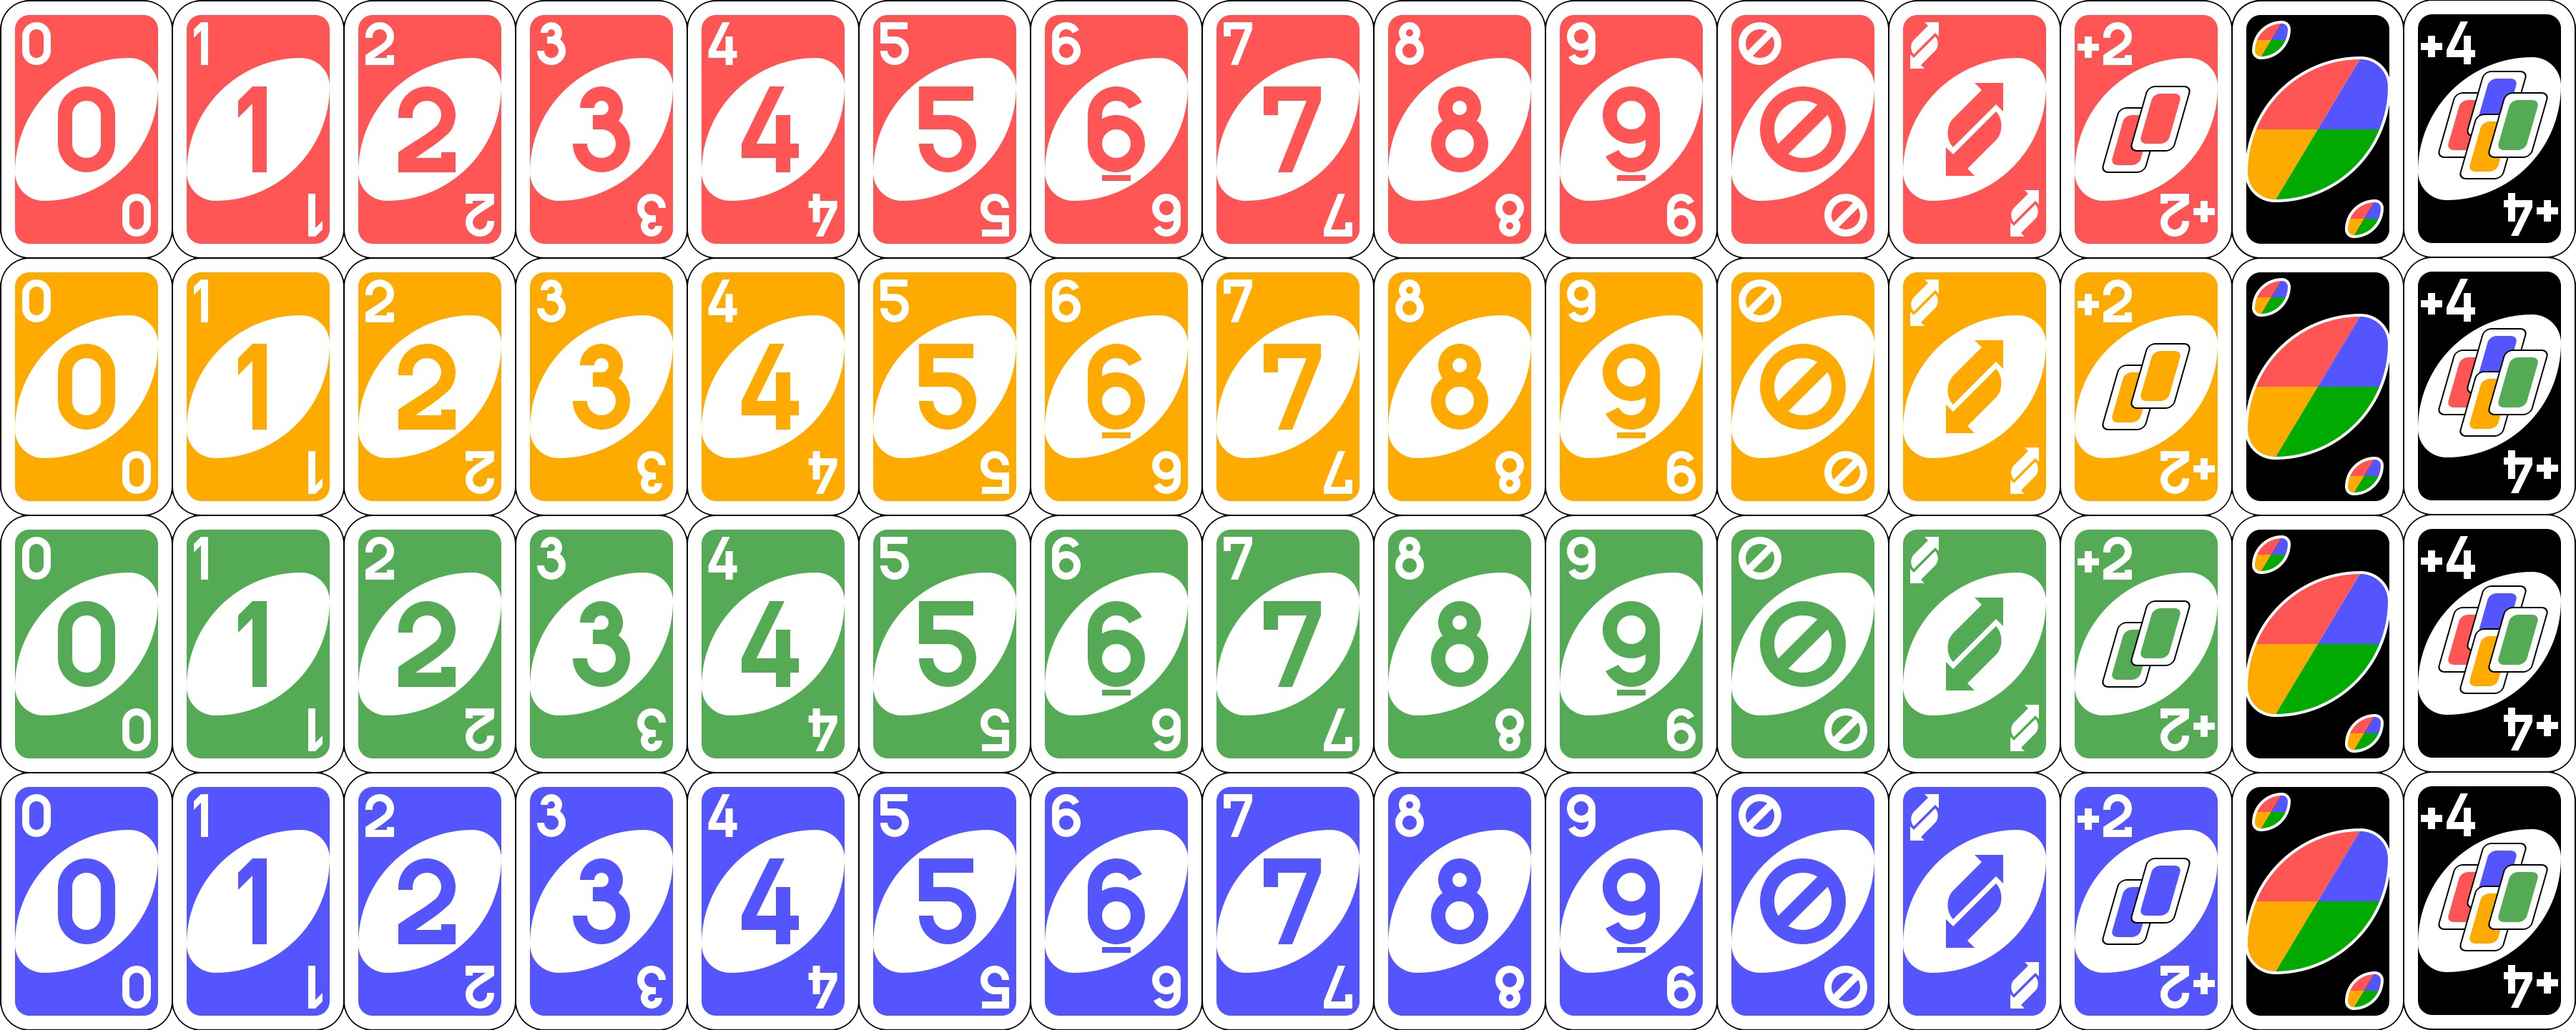
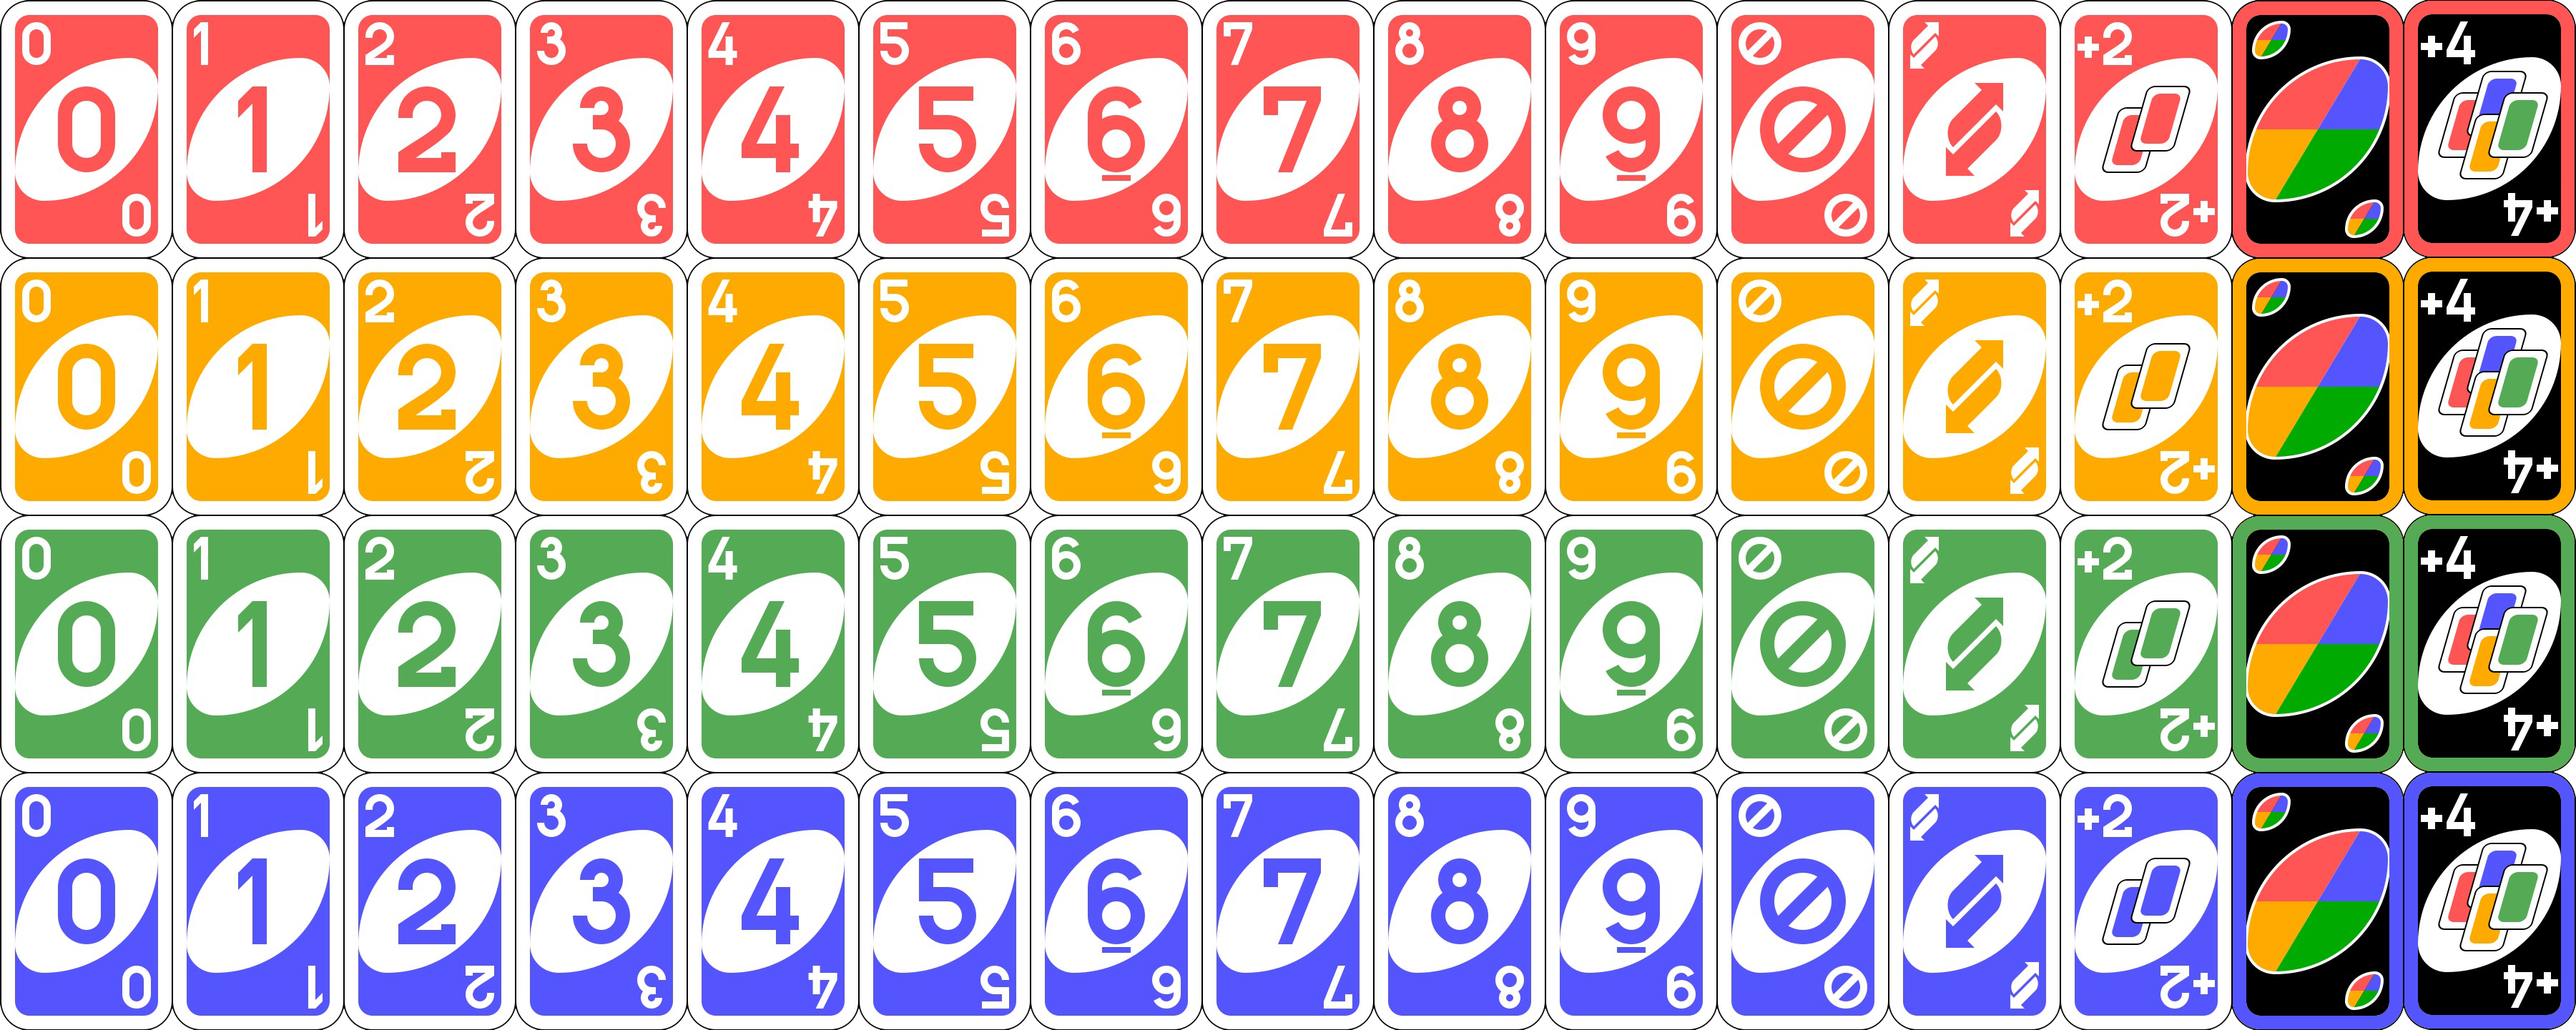
add Ring, add color selection with mouse scroll

diff --git a/src/states/GameState.cpp b/src/states/GameState.cpp
@@ -13,6 +13,25 @@
 using namespace std;
 using namespace sf;
 
+Card *GameState::getCardByPosition(int x, int y){
+	if(y>VideoManager::height - Card::height*Card::scale){
+		int numberOfCards = cards.size();
+		if(numberOfCards*Card::realWidth>VideoManager::width){
+			int cardWidth = VideoManager::width / numberOfCards;
+			if(x/cardWidth<=cards.size()-1&&x/cardWidth>=0)return cards[x/cardWidth];
+		}
+		else{
+			int padding = (VideoManager::width - numberOfCards * Card::realWidth)/2;
+			if(x>padding&&x<VideoManager::width-padding){
+				if((x-padding)/Card::realWidth<=cards.size()-1&&(x-padding)/Card::realWidth>=0)return cards[(x-padding)/Card::realWidth];
+			}
+		}
+	}
+	else{
+		return NULL;
+	}
+}
+
 void GameState::update(std::string jsonString){
 	// cout<<jsonString<<"accepted"<<endl;
 	Json::Reader reader;
@@ -26,7 +45,9 @@ void GameState::update(std::string jsonString){
 		for(auto &card:cards)delete card;
 		cards.clear();
 		for(int c=0;c<json["cards"].size();c++){
-			cards.push_back(new Card(json["cards"][c]["color"].asString(), json["cards"][c]["value"].asInt()));
+			Card *card = new Card(json["cards"][c]["color"].asString(), json["cards"][c]["value"].asInt());
+			if(card->getValue()>12)card->setColor(colorRing.getCurent());
+			cards.push_back(card);
 		}
 
 		players.clear();
@@ -54,7 +75,7 @@ void GameState::drawDeck(){
 		int x = 0;
 		int y = -10;
 		
-		if(curentCard==c)
+		if(curentCard==card)
 			y-=30;
 
 		int horizontalPadding;
@@ -81,20 +102,24 @@ void GameState::drawDeck(){
 }
 
 GameState::GameState(string jsonString, string nickname){
+	colorRing.add("yellow");
+	colorRing.add("red");
+	colorRing.add("blue");
+	colorRing.add("green");
 	backCard = new Card("back", 0);
 	topCard = new Card("back", 0);
-	curentCard = -1;
+	curentCard = NULL;
 	isCurentMover = false;
 	this->nickname = nickname;
 	update(jsonString);
 	cout<<"GameState"<<endl;
 }
 
-void GameState::event(sf::Event event){
+void GameState::event(Event event){
 	int x = 0;
 	int y = 0;
 	bool clicked = false;
-	if(event.type==sf::Event::MouseMoved){
+	if(event.type==Event::MouseMoved){
 		x = event.mouseMove.x;
 		y = event.mouseMove.y;
 	}
@@ -105,28 +130,27 @@ void GameState::event(sf::Event event){
 			clicked = true;
 		}
 	}
-
-	if(y>VideoManager::height - Card::height*Card::scale){
-		int numberOfCards = cards.size();
-		if(numberOfCards*Card::realWidth>VideoManager::width){
-			int cardWidth = VideoManager::width / numberOfCards;
-			if(x/cardWidth<=cards.size()-1&&x/cardWidth>=0)curentCard = x/cardWidth;
-		}
-		else{
-			int padding = (VideoManager::width - numberOfCards * Card::realWidth)/2;
-			if(x>padding&&x<VideoManager::width-padding){
-				if((x-padding)/Card::realWidth<=cards.size()-1&&(x-padding)/Card::realWidth>=0)curentCard = (x-padding)/Card::realWidth;
+	else if(event.type==Event::MouseWheelScrolled){
+		if(event.mouseWheelScroll.wheel==Mouse::VerticalWheel){
+			if(event.mouseWheelScroll.delta>0){
+				colorRing.getNext();
+			}
+			else {
+				colorRing.getPrevious();
+			}
+			for(auto &card:cards){
+				if(card->getValue()>12)card->setColor(colorRing.getCurent());
 			}
 		}
 	}
-	else{
-		curentCard = -1;
-	}
+
+	curentCard = getCardByPosition(x, y);
+
 	if(clicked){
-		if(curentCard!=-1){
-			Card *card = cards[curentCard];
-			if(card->getValue()>12)card->setColor("red");
-			ConnectionManager::getInst()->send(JsonManager::sendCard(card));
+		if(curentCard!=NULL){
+			// Card *card = cards[curentCard];
+			// if(card->getValue()>12)card->setColor("red");
+			ConnectionManager::getInst()->send(JsonManager::sendCard(curentCard));
 		}
 		else{
 			const int verticalPadding = VideoManager::height/2 - Card::realHeight/2;

diff --git a/src/application/Ring.cpp b/src/application/Ring.cpp
@@ -1,0 +1,33 @@
+#include <application/Ring.hpp>
+using namespace std;
+
+Ring::Ring(){
+	curentPosition = positions.begin();
+}
+
+void Ring::add(string newPosition){
+	positions.push_back(newPosition);
+	curentPosition = positions.begin();
+}
+
+string Ring::getCurent(){
+	if(curentPosition!=positions.end()){
+		return *curentPosition;
+	}
+	else return string();
+}
+
+string Ring::getNext(){
+	if(++curentPosition==positions.end()){
+		curentPosition = positions.begin();
+	}
+	return getCurent();
+}
+
+string Ring::getPrevious(){
+	if(curentPosition==positions.begin()){
+		curentPosition = positions.end()-1;
+	}
+	else curentPosition--;
+	return getCurent();
+}

diff --git a/include/states/GameState.hpp b/include/states/GameState.hpp
@@ -2,6 +2,7 @@
 	#define GAME_STATE_HPP
 	#include <states/State.hpp>
 	#include <application/Card.hpp>
+	#include <application/Ring.hpp>
 	#include <vector>
 	#include <utility>
 	class GameState: public State{
@@ -9,13 +10,15 @@
 		std::vector<Card*> cards;
 		Card *topCard;
 		Card *backCard;
-		int curentCard;
+		Card *curentCard;
 		void drawDeck();
 		void drawPlayers();
 		void update(std::string);
 		bool isCurentMover;
 		std::string nickname;
 		std::string mover;
+		Ring colorRing;
+		Card *getCardByPosition(int, int);
 	public:
 		GameState(std::string, std::string);
 		void event(sf::Event);

diff --git a/include/application/Ring.hpp b/include/application/Ring.hpp
@@ -1,0 +1,15 @@
+#ifndef RING_HPP
+	#define RING_HPP
+	#include <vector>
+	#include <string>
+	class Ring{
+		std::vector<std::string> positions;
+		std::vector<std::string>::iterator curentPosition;
+	public:
+		Ring();
+		void add(std::string);
+		std::string getCurent();
+		std::string getNext();
+		std::string getPrevious();
+	};
+#endif

diff --git a/src/managers/ConnectionManager.cpp b/src/managers/ConnectionManager.cpp
@@ -18,7 +18,8 @@ ConnectionManager::ConnectionManager():sendThread(&ConnectionManager::sendData, 
 
 TcpSocket::Status ConnectionManager::connect(){
 	return socket.connect("127.0.0.1", 10060);
-	//188.231.133.15
+	//188.231.133.15 Trach
+	//109.86.69.207 YR17
 }
 
 void ConnectionManager::disconnect(){

diff --git a/src/managers/VideoManager.cpp b/src/managers/VideoManager.cpp
@@ -116,7 +116,7 @@ void VideoManager::drawCard(Card* card, int x, int y){
 		return;
 	}
 	Sprite cardSprite = getCardSprite(card);
-	cardSprite.setPosition(x, y);		
+	cardSprite.setPosition(x, y);
 	window.draw(cardSprite);
 }
 

diff --git a/include/managers/VideoManager.hpp b/include/managers/VideoManager.hpp
@@ -15,6 +15,7 @@
 		sf::Sprite background;
 		sf::Font font;
 		sf::Sprite getCardSprite(Card *);
+		Card *getCardByPosition(int, int);
 	public:
 		static const int width = 640;
 		static const int height = 420;

diff --git a/TODO.md b/TODO.md
@@ -1,3 +1,1 @@
-- Make JSON Generation
-- Refract ConnectionManager, error handling
 - Write Destructors, socket.disconnect(), window.close(), window.destroy()
